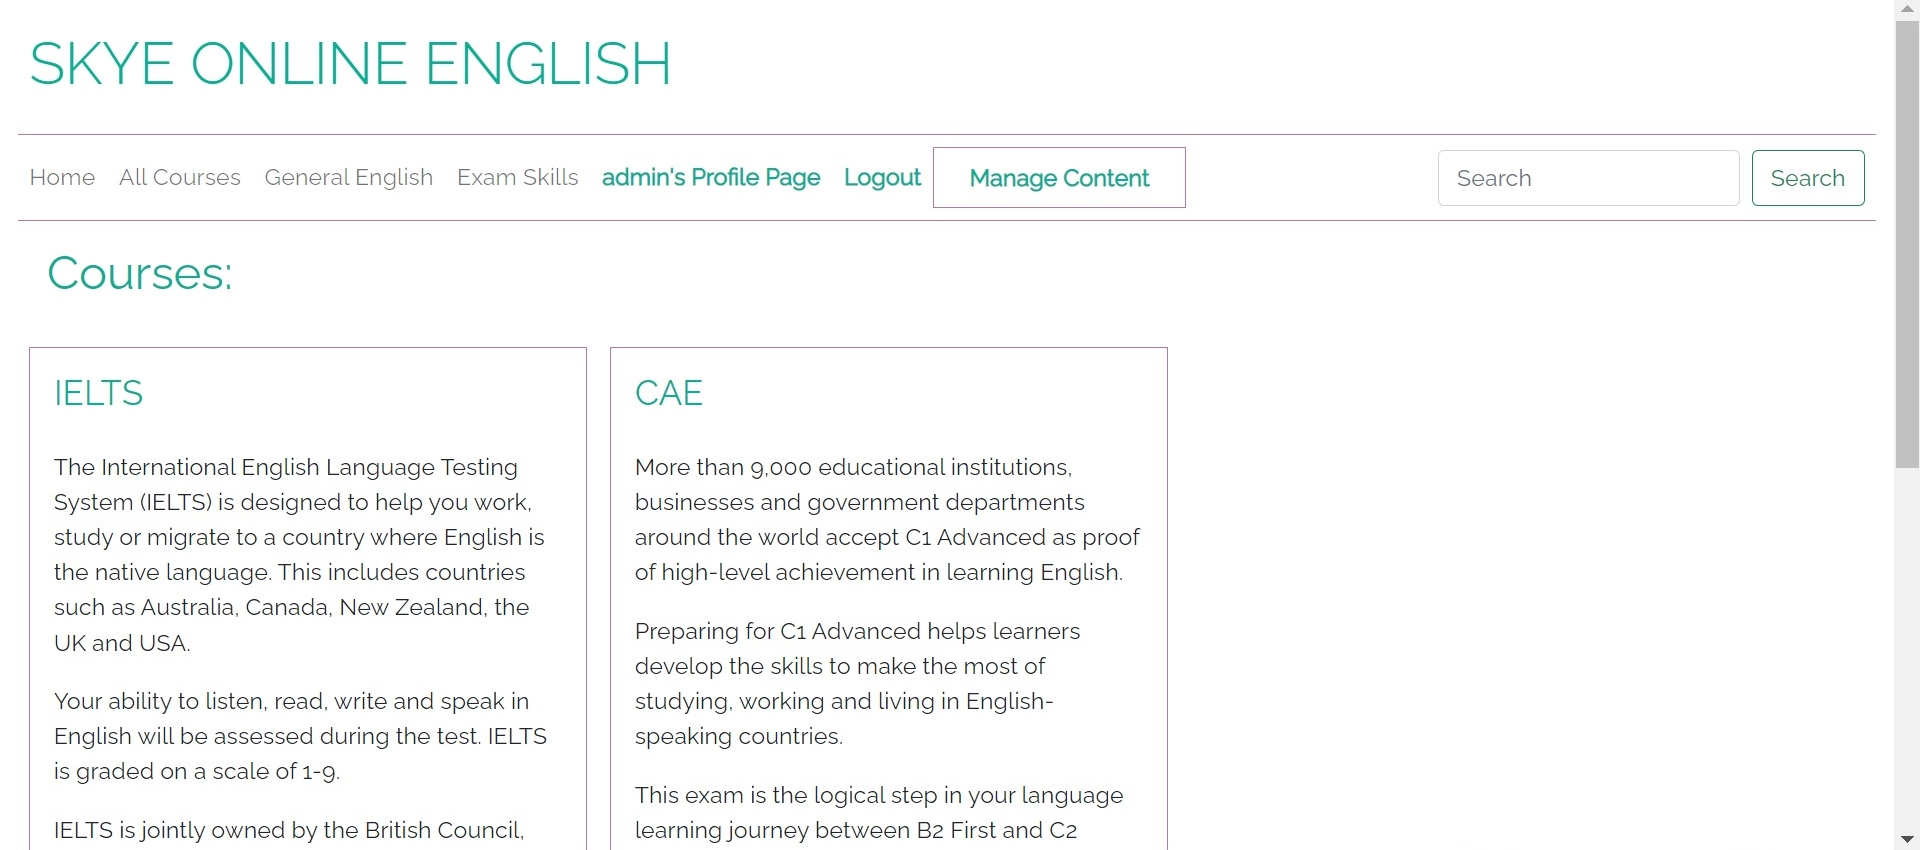
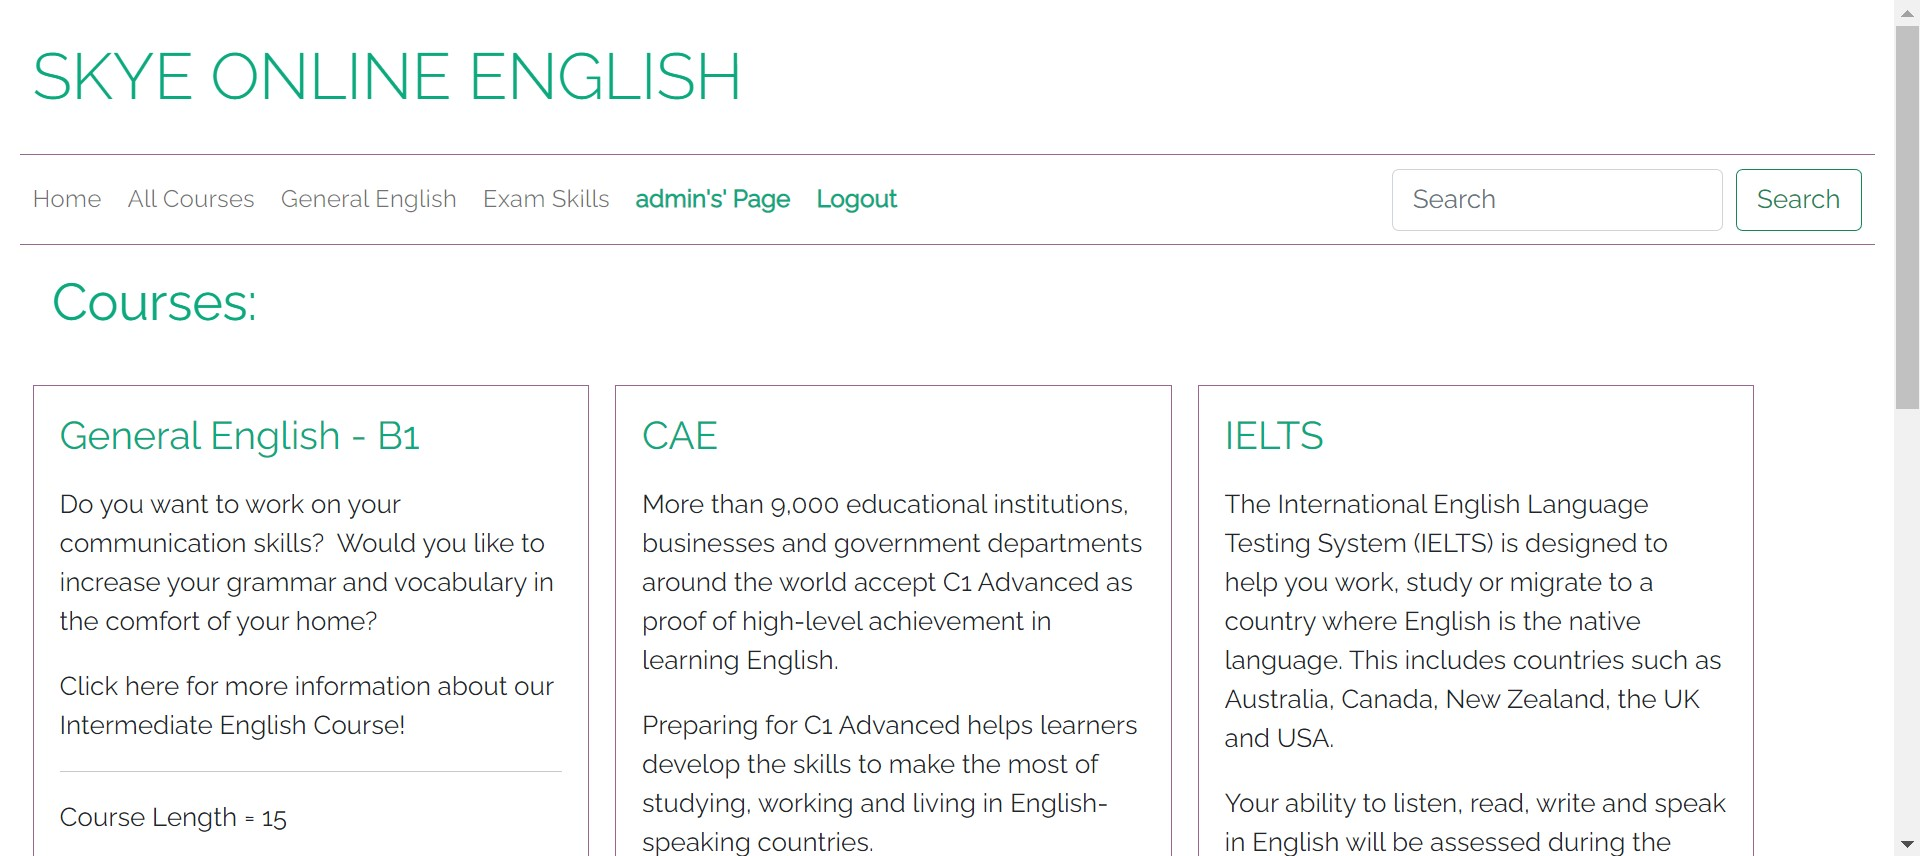
Updated ReadMe

diff --git a/README.md b/README.md
@@ -8,13 +8,13 @@
 
 Currently, Skye Online English is running and is under the ownership of a sole trader (who happens to be the developer of this project).  The business is **not** aiming to be the primary source of income for the owner, but rather secondary.  Therefore, there is no budget available for marketing.  
 
-Free marketing strategies, such as a Facebook business page, Instagram page and regular newsletter will be the principle means of communicating with potential new clients.  At time of creation, there is alread a Facebook and Instagram page (more about this further down).  Regular infographics and offers can be implemented at a later date.  
+Free marketing strategies, such as a Facebook business page, Instagram page and regular newsletter will be the principle means of communicating with potential new clients.  At time of creation, there is already a Facebook and Instagram page (more about this further down).  Regular infographics and offers can be implemented at a later date.  
 
 A quick search using [Wordtracker](https://www.wordtracker.com/) states that many people are looking at learning English in Korean - so duplicating/translating the website with an emphasis on certain langauges is something to consider.  Certainly, newsletters should be in a number of langauges.
 
 ## Planning
 
-User Stories - 
+User Stories (User) - 
 - As a User, I want to be able to view a list of available courses so that I can choose which one(s) to buy.
 - As a User, I want to be able to sort courses by category so that I can find one more suited to my needs more quickly.
 - As a User, I want to be able to view more details about a specific course so that I can make an informed decision before I purchase.
@@ -29,6 +29,8 @@ User Stories -
 - As a User, I want to be able to email the company with any questions that I may have.
 - As a User, I want to be able to access my paid-for course content so that I can study.
 - As a User, I would like to see my progress throughout each section of the course.
+
+User Stories (Admin) - 
 - As an Admin, I want to be able to add courses to my shop to encourage new business.
 - As an Admin, I want to be able to edit/update my courses to keep them current.
 - As an Admin, I want to be able to remove courses that I no longer need/want.
@@ -44,7 +46,9 @@ User Stories -
 - [Desktop View - Course Details](media/wireframes/desktop_shop/3_desktop_view_course_details.jpg)
 - [Desktop View - Shopping Bag](media/wireframes/desktop_shop/4_desktop_view_course_shopping_bag.jpg)
 - [Desktop View - Checkout](media/wireframes/desktop_shop/5_desktop_view_checkout.jpg)
-**Mobile*
+
+*Mobile*
+
 - [Mobile View - Homepage](media/wireframes/desktop_shop/1_mobile_view_homepage.jpg)
 - [Mobile View - All Courses](media/wireframes/desktop_shop/2_mobile_view_all_courses_contents_page.jpg)
 - [Mobile View - Course Details](media/wireframes/desktop_shop/3_mobile_view_course_details.jpg)
@@ -52,6 +56,7 @@ User Stories -
 - [Mobile View - Checkout](media/wireframes/desktop_shop/5_mobile_view_checkout.jpg)
 
 **Wireframes - LMS**
+
 *Desktop*
 
 - [Desktop View - LMS](media/wireframes/desktop_shop/1_lms_desktop_view.jpg)
@@ -72,8 +77,7 @@ The homepage / base template allows users almost complete navigation throughout 
 - all courses - a search with no filters applied
 - General English - a search of all published courses with the category 'General English'
 - Exam Skills - a search of all published courses with the ctegory 'Exam Skills'
-- user's Profile Page - a link to the user's order history, personal details and link to the LMS
-- Manage Content (superusers only) - link to content management (lessons, shop content)
+- user's Profile Page - a link to the user's order history, personal details and link to the LMS.  Superusers will have access to the management panel using this link.  It was decided not to give users direct access to the LMS as the main goal of this site is to sell products so having them linger before accessing the content allows for the possibility of further browsing. 
 - a search bar - for searching all published courses
 - a link to a contact form
 - a link to the site's privacy policy (footer)
@@ -85,24 +89,43 @@ The homepage / base template allows users almost complete navigation throughout 
 
 ![Search Results](media/readme_images/courses_search_results.jpg)
 
-Here we can see the filtered search results in order of course name.  At present there are only 2 courses for testing/display purposes.
+The search is a filter of all content.  In the above image we can see see what happens when we click 'All Courses' - there are two categories (Exam Skills and General English) that are on display here.  CAE and IELTS are both exam courses and General English - B1 is not.  Every course that is created will be on display in this tab.  
 
 ![Search Results empty](media/readme_images/courses_search_results_no_results.jpg)
 
 If the search results come up empty, users will see this message.
 
+**Exam Skills**
+
+![Exam Skills](media/readme_images/exam_skills.jpg)
+
+Here is the filter in action displaying the Exam courses only.
+
+**General English**
+
+![General English](media/readme_images/general_english.jpg)
+
+And here is the filter in action displaying the General English courses only.
 
 **Course Details**
 
 ![Course Details](media/readme_images/course_details_67.jpg)
 
-In the course details page the user can see much more infromation about a course than in the search results.  This image has been zoomed out to 67% to show the 'Add to Bag' feature.  Users can only add it to their shopping if it has not been added already, and if it has not been bought before.  
+In the course details page the user can see much more infromation about a course than in the search results.  This image has been zoomed out to 67% to show the 'Add to Bag' feature.  Users can only add it to their shopping if it has not been added already, and if it has not been bought before.  If the user attempts to add it again an error will appear in the top right preventing them from doing so.  This is prevent multiple purchases of the same product as, like sites similar to Udemy, the user will receive lifetime access.
+
+**Product Added to Bag**
+
+![Product Added to Bag](media/readme_images/product_added_to_bag.jpg)
+
+When a product is added to the shopping bag, the page will refresh and display 2 things:
+- A success message in the upper right corner
+- A floating sticky div at the base of the screen with the bag's total and a link to the shopping bag page.  This floating div will be on every shop page so that users can add more items but be aware of how much they will have to pay.
 
 **Shopping Bag**
 
 ![Shopping Bag](media/readme_images/shopping_bag.jpg)
 
-In the shopping bag, users can review all the courses they wish to purchase and remove items.
+In the shopping bag, users can review all the courses they wish to purchase and remove items.  There is an option to return to the courses section if they wish to add more courses to their bag.
 
 **Checkout**
 
@@ -114,13 +137,13 @@ Users can purchase their courses here.  The payment system is Stripe.  Users can
 
 ![Checkout Success](media/readme_images/post_checkout.jpg)
 
-This page will provide the user with a summary of what has just been purchased.  There will be a copy of this available in the user's profile page.
+This page will provide the user with a summary of what has just been purchased.  There will be a copy of this available in the user's profile page.  A feature which has yet to be implemented is for an automated email to be sent to the client's email address.  This is something that can be done at a later date, but for now a manual email can be sent.
 
 **Personal Profile**
 
 ![Personal Page](media/readme_images/profile_oreder.jpg)
 
-On this page will be a list of all the user's past orders along with their saved address.  This is also where the user will be able to access the LMS.  This was placed in here intentionally as opposed to in the navigation bar as the principle purpose of this site is to make money so the inital links are for business purposes.
+On this page will be a list of all the user's past orders along with their saved address.  This is also where the user will be able to access the LMS.  
 
 **Contact**
 
@@ -147,19 +170,19 @@ Part 4:
 
 Each lesson in the LMS is divided into 4 sections and has a progress bar along the bottom.
 - Section 1 is designed to give an overview of the question - Is it a multiple choice question, or is at an exam skill?
-- Section 2 is designed to give a sampl question to allow the user an opportunity to try the question before reading the guide.
+- Section 2 is designed to give a sample question to allow the user an opportunity to try the question before reading the guide.
 - Section 3 is a guide to explain how to complete the question.  There is an option to include a video here.
-- Section 4 is for further information/study.  There is an option to upload pdfs - currently using [Cloudinary](https://cloudinary.com/).
+- Section 4 is for further information/study.  There is an option to upload PDFs - currently using [Cloudinary](https://cloudinary.com/).
 
 I will explain the fields later on when I share the admin side of the LMS.
 
 **Manage**
 
-I have a made a control panel of sorts where the admin user can add content to the site/lms.
+I have a made a control panel of sorts where the admin user can add/edit content to the site/lms.
 
 ![Manage](media/readme_images/manage.jpg)
 
-The admin can access each section by clicking the arrow on the right of the screen.  Users have a profile page where they can access their order history, whereas admins will have this page appear in its stead. 
+The admin user can access each section by clicking the arrow on the right of the screen.  Users have a profile page where they can access their order history, whereas admins will have this page appear in its stead. 
 
 **Manage New Content**
 
@@ -185,9 +208,9 @@ The lesson is the nuts and bolts of the LMS.  New academic content is added here
 
 The large fields are SummerNote widgets which can allow the user to style the content as they wish.  The CSS file takes into account bold tags and italic tags.  SummerNote does not use the more modern 'strong' and 'em' tags, so a later development could be to use a different wysiwyg editor.
 
-There is an option to include a video if wished as youtube already contains a lot of videos regarding efl content.  
+There is an option to include a video if wished as Youtube already contains a lot of videos regarding EFL content.  
 
-Finally there is an opportuntiy to include 2 PDF files.  These are currently ebing uploaded to Cloudinary and will open in a new window. 
+Finally there is an opportuntiy to include 2 PDF files.  These are currently ebing uploaded to Cloudinary and will open in a new window. Users can download them from there.
 
 **Add New Course to Shop**
 
@@ -229,7 +252,7 @@ If the comapny wishes to reply, they will need a seperate email account.  As a l
 | 6 | Can access certain pages without logging in | Login_required decorators added to checkout and profiles pages |
 | 7 | Summernote fields aren't displaying in the UI, only in the admin| Updated forms.py accordingly |
 | 8 | Customers still had access to all courses that weren't paid for | Added for loop to filter course names that match what courses are bought in the user's profile |
-| 9 | Customers can purchase the same thing twice but at different times| Added for loop to add_to_bag function tocompare with items already in user's profile |
+| 9 | Customers can purchase the same thing twice but at different times| Added for loop to add_to_bag function to compare with items already in user's profile |
 | 10 | After installation of cloudinary, thumbnail images in LMS were not displaying | Changed model to Charfield and added the urls of the thumbnails in Cloudinary |
 |11|Superusers do not have access to courses unless they purchase them|Wrapped view code for LMS content in if statement|
 |12|PDF file were not downloading from lms|Cloudinary free account prevents sending PDF and ZIP files, updated cloudinary settings.|
@@ -255,8 +278,8 @@ There was no automated testing carried out during this project. Each User Story 
 |**Test**|**Result**|**Verdict**|
 |---|---|---|
 |Entered the site's url|Homepage displays correctly|-|
-|Selected 'General English' from the nav bar|An error displays stating that there are no general English courses available at this time|**PASS**|
-|Selected 'General English' from the footer|An error displays that there are no courses that match this search|**PASS**|
+|Selected 'General English' from the nav bar|The single General English course displays accordingly|**PASS**|
+|Selected 'General English' from the footer|The single General English course displays accordingly|**PASS**|
 |Selected 'Exam Skills' from the nav bar|The two exam skills courses display correctly|**PASS**|
 |Selected 'Exam Skills' from the footer|The two exam skills courses display correctly|**PASS**|
 |Entered an exam name (IELTS) into the search bar|Only the IELTS course displayed|**PASS**|
@@ -269,7 +292,7 @@ There was no automated testing carried out during this project. Each User Story 
 |**Test**|**Result**|**Verdict**|
 |---|---|---|
 |Entered the site's url|Homepage displays correctly|-|
-|Selected 'All courses' from the nav bar|A list of all (2 for development purposes) display in the form of cards|-|
+|Selected 'All courses' from the nav bar|A list of all (3 for development purposes) display in the form of cards|-|
 |Selected 'More Details' fromm the bottom of the course cards|A new page opened up with more information about the specific course I selected.|**PASS**|
 |Returned to 'All courses' and selected 'More Details' on a differernt course|A new page opened up with more information about the specific course I selected.|**PASS**|
 
@@ -278,7 +301,7 @@ There was no automated testing carried out during this project. Each User Story 
 |**Test**|**Result**|**Verdict**|
 |---|---|---|
 |Entered the site's url|Homepage displays correctly|-|
-|Selected 'All courses' from the nav bar|A list of all (2 for development purposes) display in the form of cards|-|
+|Selected 'All courses' from the nav bar|A list of all (3 for development purposes) display in the form of cards|-|
 |Selected 'More Details' fromm the bottom of the course cards|A new page opened up with more information about the specific course I selected.|-|
 |Selected 'Add to Bag'|Page refreshes and displays message stating that the item was successfully added, link appears at the bottom of the page with bag total|-|
 |Returned to 'All courses' and selected 'More Details' on a differernt course|A new page opened up with more information about the specific course I selected.|-|
@@ -299,9 +322,8 @@ There was no automated testing carried out during this project. Each User Story 
 |**Test**|**Result**|**Verdict**|
 |---|---|---|
 |Repeated steps above to add items to bag|Directed to Shopping bag page|-|
-|Clicked on 'Secure Checkout' button|Directed to checkout page where user can pay for items||
-|Filled in personal details and added Stripe Test number from Stripe documentation.  Clicked on 'Complete Payment|Overlay loads asking user to wait||
-|On completion of payment, page directs to 'Order Confirmation' page and displays message confirming purchase has been made||**PASS**|
+|Clicked on 'Secure Checkout' button|Directed to checkout page where user can pay for items |
+|Filled in personal details and added Stripe Test number from Stripe documentation.  Clicked on 'Complete Payment|Overlay loads asking user to wait. On completion of payment, page directs to 'Order Confirmation' page and displays message confirming purchase has been made|**PASS**|
 |Accessed Stripe Dashboard|Accessed webhooks in Stripe's dashboard to confirm if payment was successful. Stripe shows response code 200 for payment intent, charges and balance|**PASS**|
 
 **As a User I want to be able to store my personal data so that I can use it again without having to reinput it.**
